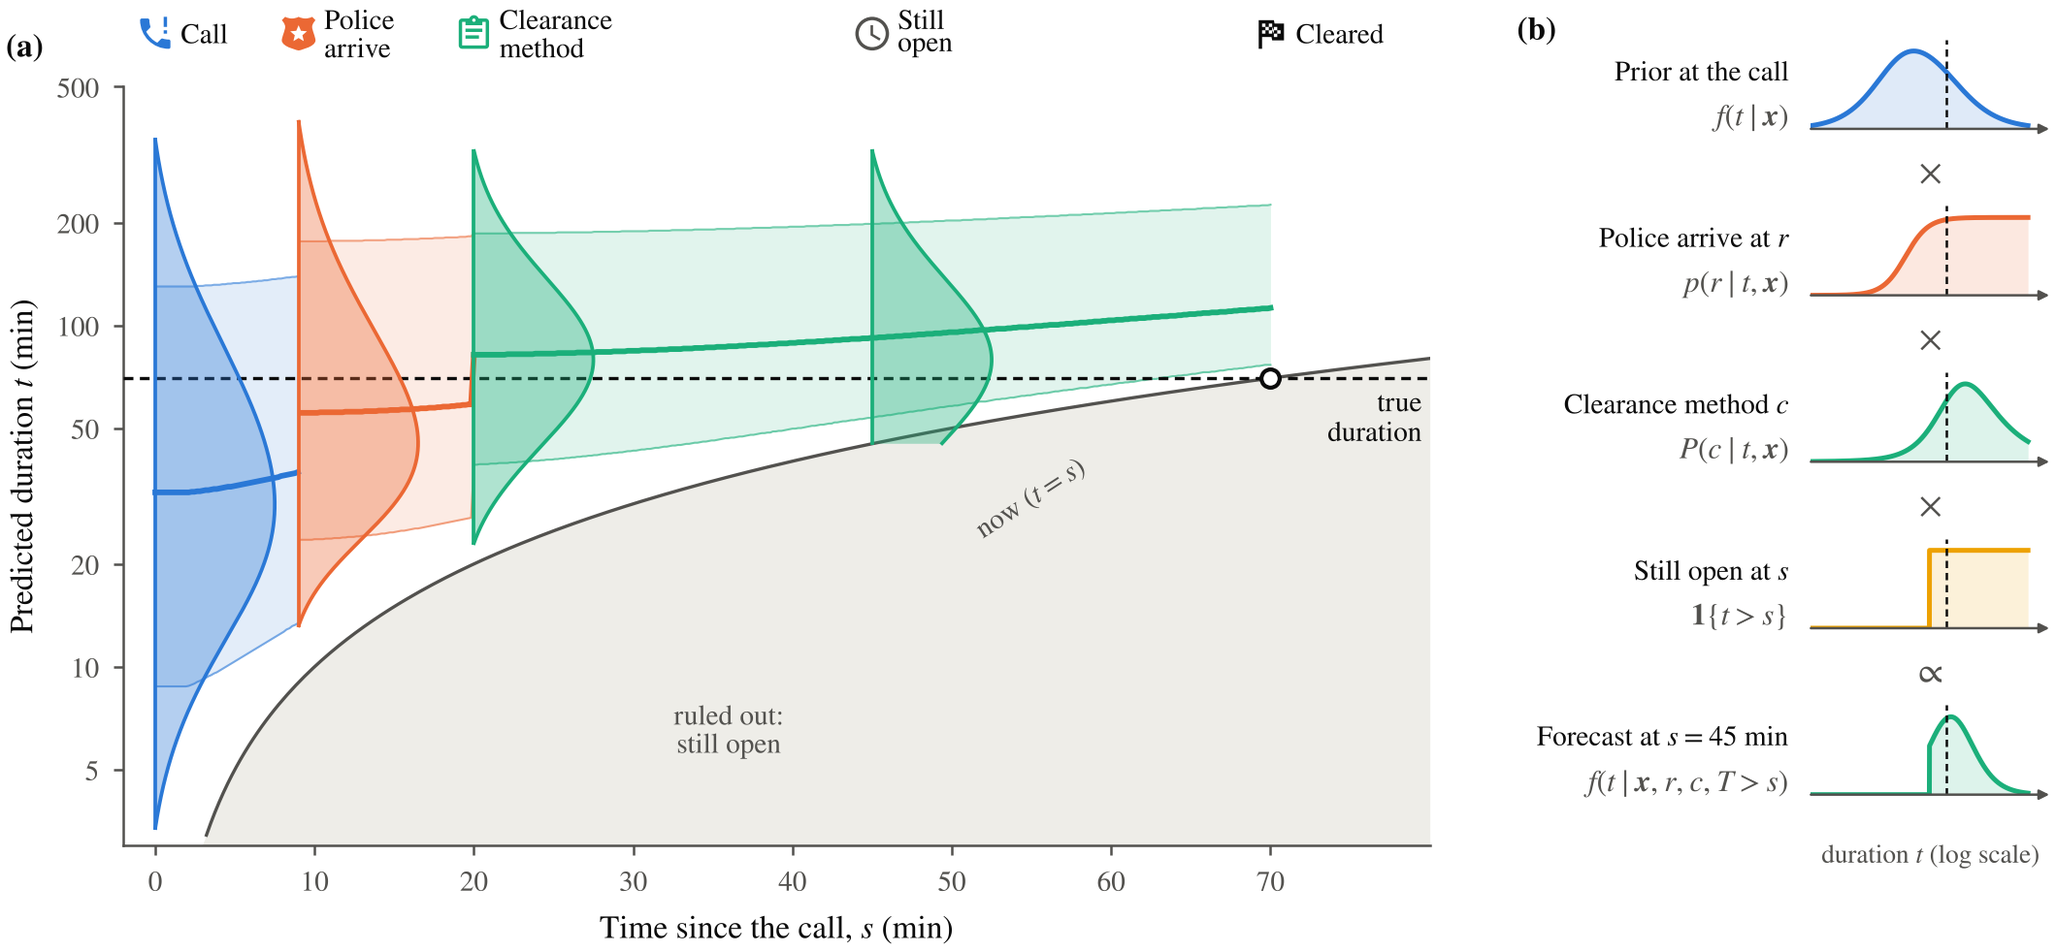
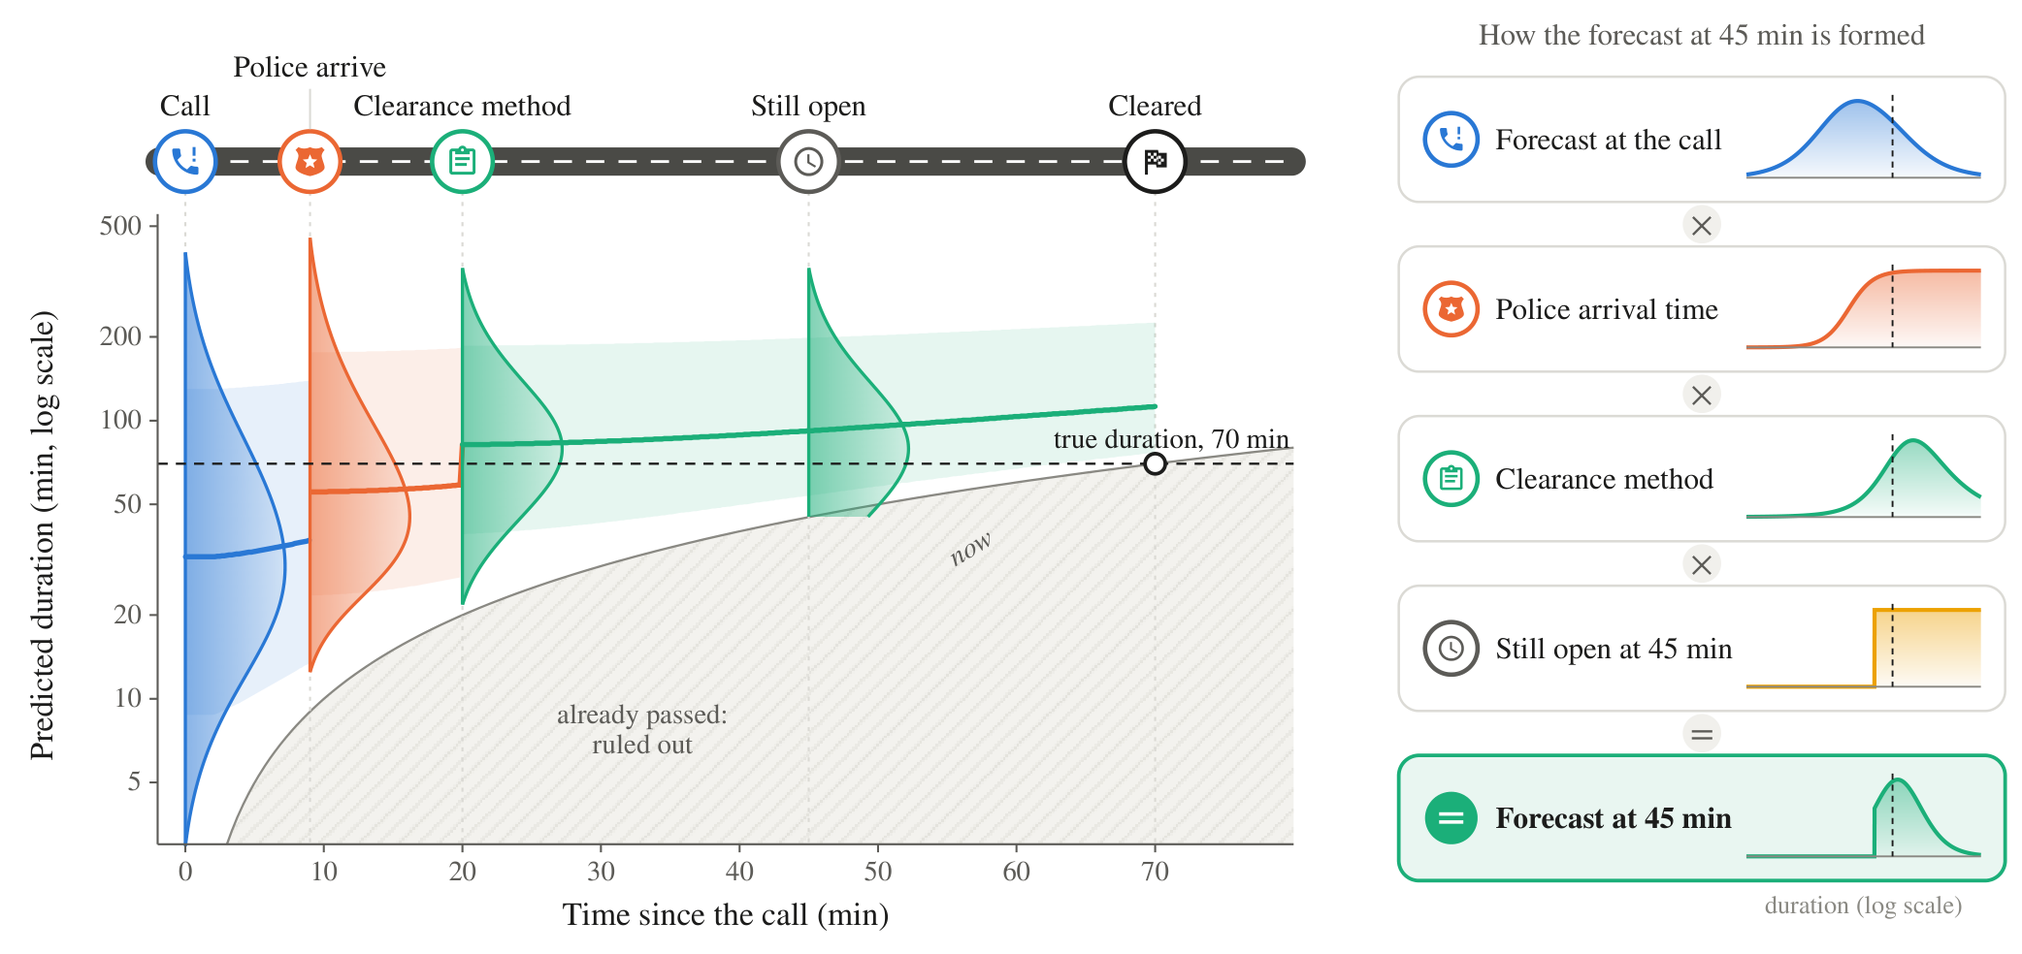
Project page for the current paper: one model for every stage, six datasets, code link
Claude-Session: https://claude.ai/code/session_01YcMY3FKXYQvjDp1taN68KX

diff --git a/index.html b/index.html
@@ -3,10 +3,10 @@
 <head>
 <meta charset="utf-8">
 <meta name="viewport" content="width=device-width, initial-scale=1">
-<title>EvoDur: Updating Incident Duration Predictions</title>
-<meta name="description" content="EvoDur updates traffic incident duration forecasts as information arrives: a neural competing-risk model with evidence modules combined by Bayes' rule.">
-<meta property="og:title" content="EvoDur: Updating traffic incident duration predictions as information arrives">
-<meta property="og:image" content="assets/graphical_abstract.png">
+<title>EvoDur: Bayesian updating of incident duration forecasts</title>
+<meta name="description" content="EvoDur: one model for every stage of the response. Traffic incident duration forecasts updated by Bayes' rule as the police arrive, the label is recorded and time passes.">
+<meta property="og:title" content="EvoDur: One model for every stage of the response">
+<meta property="og:image" content="assets/teaser.png">
 <link rel="stylesheet" href="https://cdnjs.cloudflare.com/ajax/libs/KaTeX/0.16.9/katex.min.css">
 <script defer src="https://cdnjs.cloudflare.com/ajax/libs/KaTeX/0.16.9/katex.min.js"></script>
 <script defer src="https://cdnjs.cloudflare.com/ajax/libs/KaTeX/0.16.9/contrib/auto-render.min.js"
@@ -22,6 +22,7 @@ body{margin:0;background:var(--bg);color:var(--fg);font:16px/1.65 Inter,system-u
 main{max-width:920px;margin:0 auto;padding:56px 20px 80px}
 h1{font:600 clamp(28px,4.4vw,42px)/1.18 "Source Serif 4",Georgia,serif;margin:0 0 14px;letter-spacing:-.01em;text-align:center}
 h1 .name{color:var(--accent)}
+.sub{text-align:center;font:400 clamp(18px,2.6vw,23px)/1.35 "Source Serif 4",Georgia,serif;color:var(--muted);margin:0 0 18px}
 h2{font:600 24px/1.3 "Source Serif 4",Georgia,serif;margin:56px 0 14px}
 .authors{text-align:center;font-size:17px;margin:6px 0 2px}
 .affil{text-align:center;color:var(--muted);font-size:14px}
@@ -63,85 +64,99 @@ footer{color:var(--muted);font-size:13px;text-align:center;margin-top:60px}
 </head>
 <body>
 <main>
-<h1><span class="name">EvoDur</span>: Updating traffic incident duration predictions as information arrives</h1>
+<h1><span class="name">EvoDur</span>: One model for every stage of the response</h1>
+<p class="sub">Bayesian updating of traffic incident duration forecasts</p>
 <div class="authors">Xiaoyang Cao<sup>1</sup>, Zhiyong Liu<sup>2</sup>, Ruimin Li<sup>3</sup></div>
 <div class="affil"><sup>1</sup>Massachusetts Institute of Technology &nbsp; <sup>2</sup>Beijing Jiaotong University &nbsp; <sup>3</sup>Tsinghua University</div>
 
 <div class="links">
-  <a class="btn off" href="#" title="Coming soon">Paper</a>
-  <a class="btn off" href="#" title="Coming soon">Code</a>
+  <a class="btn off" href="#" title="Coming soon">Paper (coming soon)</a>
+  <a class="btn" href="https://github.com/XiaoyangCao1113/EvoDur">Code</a>
   <a class="btn" href="#data">Data</a>
   <a class="btn" href="#citation">BibTeX</a>
 </div>
 
 <figure>
-  <img src="assets/teaser.png" alt="The predicted duration of one incident narrowing as the call, police arrival, the clearance method and elapsed time arrive">
-  <figcaption>(a) The forecast for one incident as the response unfolds: the 80% band and the predictive densities sharpen with each piece of evidence (police arrival, the clearance method, elapsed time), and durations shorter than the elapsed time are ruled out. (b) Each forecast is the call-time prior multiplied by one likelihood per piece of evidence, so no model is refitted.</figcaption>
+  <img src="assets/teaser.png" alt="The forecast for one incident sharpening as the police arrive, the label is recorded and time passes">
+  <figcaption>The forecast for one incident (schematic). Left: the forecast density issued at the call, when the police arrive, when the label is recorded and at 45 min; the band is the 80% prediction interval, and durations that have already passed are ruled out. Right: the forecast at 45 min is the forecast at the call multiplied by one factor per piece of information and renormalized. Each factor is fitted once on all incidents, so nothing is refitted.</figcaption>
 </figure>
 
-<div class="tldr"><b>In short.</b> A traffic management centre needs a duration estimate when an incident is reported, and a sharper one as the police arrive, the incident is labelled and time passes. The <i>label</i> is the category the response records for the incident: in Beijing, who cleared it (the parties or the police) and whether congestion formed; in the other datasets, its severity or the police disposition. EvoDur keeps one call-time model and adds each new piece of evidence through Bayes' rule, so one model serves every <i>information state</i>, that is, every combination of what is known at a given moment.</div>
+<div class="tldr"><b>In short.</b> A traffic management center needs a duration forecast when an incident is reported, and a sharper one as the police arrive, the officer reports how the incident is handled (the <i>label</i>) and time passes. Most models are refitted for each stage, so the models for late stages learn from the few incidents that last that long. EvoDur keeps one call-time forecast and updates it by Bayes' rule with one small likelihood per piece of evidence. It is fitted once on all incidents and serves every stage.</div>
 
 <h2>Why EvoDur</h2>
 <div class="why">
-  <div class="card"><div class="k">One model, every moment</div>
-  <p>Earlier work trains a new model for each stage of the response. EvoDur trains one call-time prior and one small module per type of evidence, and Bayes' rule gives the forecast for any combination of evidence. Nothing is refitted when information arrives, and an update takes about 2&nbsp;ms on one CPU core.</p></div>
-  <div class="card"><div class="k">Better the more you know</div>
-  <p>The log score is the log of the predicted density at the true duration, so higher is better. EvoDur has the best log score at the call on all five datasets, and its lead over every other model grows as evidence comes in, reaching 0.51 nats per incident (a 66% higher predictive density at the true duration) for incidents still open after two hours.</p></div>
-  <div class="card"><div class="k">Ahead of stage-wise models</div>
-  <p>Once the police have arrived, the single EvoDur model beats the stage-wise linear and gradient-boosting models of earlier work by 0.04 to 0.22 nats per incident in every fold, and it matches or beats a neural network trained separately for that information state.</p></div>
+  <div class="card"><div class="k">One model for every stage</div>
+  <p>A call-time forecast and one module each for the police arrival time, the label and the elapsed time. Any combination of information is handled without refitting, and an update takes 1&ndash;3&nbsp;ms on one CPU core.</p></div>
+  <div class="card"><div class="k">Better than refitting</div>
+  <p>After police arrival, EvoDur scores higher than models refitted for that stage in every fold on all four datasets with arrival times. The longer an incident stays open, the larger the gain, because a refitted model sees fewer incidents.</p></div>
+  <div class="card"><div class="k">Intervals you can act on</div>
+  <p>With the arrival time and the label, the 80% interval has a 5&ndash;14% lower interval score than stage-wise linear and gradient-boosted models, and it still covers 79&ndash;80% of incidents.</p></div>
 </div>
 
 <div class="grid">
-  <div class="stat"><b>34 / 35</b><span>cross-validation folds, over the five datasets, where EvoDur has the best log score once the label is known</span></div>
-  <div class="stat"><b>0.04–0.22</b><span>nats per incident gained over the stage-wise models of earlier work after police arrival</span></div>
-  <div class="stat"><b>10–27%</b><span>lower absolute error of the median forecast once arrival time and label are known, compared with the forecast at the call</span></div>
+  <div class="stat"><b>6 datasets</b><span>Beijing (two), NY/NJ/CT 511, Sydney, Seattle and San Francisco; 632,000 incidents in total</span></div>
+  <div class="stat"><b>11&ndash;37%</b><span>lower error of the predicted median once the arrival time and the label are known, compared with the forecast at the call</span></div>
+  <div class="stat"><b>10&ndash;39%</b><span>lower ranked probability score of the incident class forecast (minor, intermediate, major) from the call to arrival and label</span></div>
 </div>
 
 <h2>Abstract</h2>
-<p>A traffic management centre needs to know how long an incident will last as soon as it is reported, and it needs a sharper answer as the response unfolds. Current practice either fits a new model for every stage of the response or treats the clearance method as a cause that must be predicted at the call. We turn the classical competing-risk model around, modelling the duration first and the categorical label recorded during the response second, with neural networks for both parts. The resulting model, EvoDur, consists of a call-time prior and one small likelihood module per type of later evidence, such as the police arrival time, the label or the fact that the incident is still open, and Bayes' rule combines whatever evidence is available without refitting anything. The call-time forecast does not depend on the label model, and conditioning on elapsed time is at least as efficient as refitting. On five datasets from Beijing, the New York region, Montgomery County and Austin, EvoDur has the best log score of ten models at the call and once the label is known (34 of 35 folds), and its lead widens as evidence accumulates.</p>
+<p>Traffic management centers decide on diversions, message signs, tow trucks and police units while an incident is still open, so they need a duration forecast that is revised as information arrives. Most existing models are refitted for each stage of the response, and the models for late stages learn from the few incidents that reach them. We propose EvoDur, one model for every stage. A neural network forecasts the distribution of the duration at the call. The police arrival time, the response label that records how the incident is handled, and the time the incident has stayed open each enter through their own likelihood given the duration, and Bayes' rule combines whatever is known. On six datasets from three countries, EvoDur is as accurate as the best of ten baselines at the call. After police arrival it is more accurate than models refitted for that stage and than a single network with the later information as optional inputs, and the longer an incident stays open, the more it gains over models refitted on the incidents still open. With the arrival time and the label, its 80% prediction intervals have a 5&ndash;14% lower interval score than those of stage-wise linear and gradient-boosted models and keep their nominal coverage. Relative to the call, the arrival time and the label reduce the error of the predicted median by 11&ndash;37% on the four datasets that record arrivals, and the forecast of the incident class (minor, intermediate or major) improves at each stage.</p>
 
 <h2>Method</h2>
-<p>Let \(\boldsymbol{x}\) be the features known at the call (time, location, incident type and, where recorded, vehicles and weather), \(T\) the duration and \(C\) the label recorded during the response. Their joint distribution can be written in two orders. Earlier competing-risk models put the label first,</p>
+<p>Let \(\boldsymbol{x}\) be what is known at the call (time, location, incident type and, where recorded, priority or vehicles), \(T\) the duration and \(C\) the label recorded during the response. Classical competing-risk models put the label first,</p>
 <div class="eq">\[ p(c, t \mid \boldsymbol{x}) = P(c \mid \boldsymbol{x})\, f(t \mid c, \boldsymbol{x}), \]</div>
-<p>so the call-time forecast is a mixture over labels that are not yet known. EvoDur uses the other order,</p>
+<p>so the forecast at the call is a mixture over labels that are not yet known. EvoDur puts the duration first,</p>
 <div class="eq">\[ p(c, t \mid \boldsymbol{x}) = f(t \mid \boldsymbol{x})\, P(c \mid t, \boldsymbol{x}). \]</div>
-<p>The label then becomes evidence about the duration, and any later piece of evidence \(e_j\) with a likelihood given the duration enters the same way:</p>
+<p>The label then becomes evidence about the duration, and every later piece of evidence \(e_j\) with a likelihood given the duration enters the same way:</p>
 <div class="eq">\[ f(t \mid \boldsymbol{x}, e_1, \dots, e_m) \;\propto\; f(t \mid \boldsymbol{x}) \prod_{j=1}^{m} p(e_j \mid t, \boldsymbol{x}). \]</div>
-<p>The prior \(f(t \mid \boldsymbol{x})\) is a neural network that outputs a mixture of log-logistic accelerated failure time (AFT) distributions. The evidence modules are a classifier for the label, a mixture density for the police arrival time \(r < t\) (minutes after the call), and the indicator \(\mathbb{1}\{t > s\}\) for an incident still open at time \(s\). Each part is fitted once, and any subset of evidence is combined at prediction time.</p>
-
-<h2>Results</h2>
-<p><b>The lead grows with the evidence.</b> At the call EvoDur and the strongest baseline are close, since both see only the call-time features \(\boldsymbol{x}\). Each new piece of evidence widens the gap.</p>
+<p>The call-time forecast \(f(t \mid \boldsymbol{x})\) is a neural mixture of log-logistic distributions. The modules are a classifier of the label given the duration, a model of the police arrival time \(r\) as a fraction of the duration (so \(r < t\) holds by construction), and the indicator \(\mathbb{1}\{t > s\}\) for an incident still open at time \(s\). Labels that indicate a larger response become more likely as the duration grows, so the label carries information about the duration:</p>
 <figure>
-  <img src="assets/gain.png" alt="EvoDur's margin over the best other model rising from the call to incidents still open after two hours" style="max-width:520px;margin:0 auto">
-  <figcaption>EvoDur's lead in log score over the best baseline in each information state (call, label known, still open after 30, 60 and 120 minutes). After the call, only baselines that can use the label are compared. The lead grows as evidence accumulates, up to 0.51 nats per incident for incidents still open after two hours.</figcaption>
+  <img src="assets/label_curves.png" alt="Probability of each label class given the duration in six datasets">
+  <figcaption>Probability of each label class given the duration, from EvoDur's label module (held-out incidents). At each duration the bands sum to 1.</figcaption>
 </figure>
 
-<p class="tnote">Log score per incident on held-out data (nats, higher is better), mean over cross-validation folds. &ldquo;Best other&rdquo; at the call is the best of the nine baselines: linear and neural competing-risk mixtures, DeepHit, Neural Fine-Gray, a linear AFT model, a Weibull mixture density network, XGBoost-AFT, a random survival forest and DeepSurv (the last two give no density). Once the label is known it is the best of the four baselines that can use the label.</p>
+<h2>Results</h2>
+<p><b>At the call, and after police arrival.</b> At the call EvoDur is as accurate as the best other model. After police arrival it is ahead of every model refitted for that stage.</p>
+<figure>
+  <img src="assets/summary.png" alt="EvoDur compared with its strongest competitor at the call, with the label known and after police arrival">
+  <figcaption>Difference in held-out log score per incident between EvoDur and its strongest competitor (positive means EvoDur is better), with 95% confidence intervals over cross-validation folds. (a) At the call. (b) With the label known, against the best competing-risk model. (c) After police arrival, against stage-wise models fitted for that stage.</figcaption>
+</figure>
+
+<p style="margin-top:28px"><b>The gain over refitting grows the longer an incident stays open.</b> A model refitted for a late stage learns only from the incidents that are still open, and these become few. EvoDur keeps the call-time forecast learned from all incidents.</p>
+<p class="tnote">Log score of EvoDur minus that of a neural network refitted on the incidents still open, with the label known (&times;10<sup>&minus;3</sup> per incident; positive means EvoDur is better), and the number of folds won out of five. A dash marks fewer than 100 test incidents per fold.</p>
 <div class="tablewrap">
 <table>
-<thead><tr><th>Dataset</th><th>Incidents</th><th>EvoDur, call</th><th>Best other, call</th><th>EvoDur, label known</th><th>Best other, label known</th></tr></thead>
+<thead><tr><th>State</th><th>Beijing 4th Ring</th><th>Beijing citywide</th><th>NY/NJ/CT 511</th><th>Sydney</th><th>Seattle</th><th>San Francisco</th></tr></thead>
 <tbody>
-<tr><td>Beijing 4th Ring</td><td>5,388</td><td class="ours">−4.134</td><td>−4.144</td><td class="ours">−4.108</td><td>−4.127</td></tr>
-<tr><td>Beijing citywide</td><td>40,120</td><td class="ours">−4.273</td><td>−4.277</td><td class="ours">−4.254</td><td>−4.290</td></tr>
-<tr><td>NY/NJ/CT 511</td><td>206,009</td><td class="ours">−4.734</td><td>−4.755</td><td class="ours">−4.719</td><td>−4.804</td></tr>
-<tr><td>Montgomery County</td><td>147,835</td><td class="ours">−4.845</td><td>−4.850</td><td class="ours">−4.788</td><td>−4.814</td></tr>
-<tr><td>Austin</td><td>229,693</td><td class="ours">−5.500</td><td>−5.501</td><td class="ours">−5.350</td><td>−5.367</td></tr>
+<tr><td>Label known</td><td>&minus;11 (0/5)</td><td>&minus;3 (1/5)</td><td>0 (3/5)</td><td>&minus;5 (0/5)</td><td>&minus;2 (2/5)</td><td class="ours">+6 (5/5)</td></tr>
+<tr><td>Open 10 min</td><td>+1 (2/5)</td><td>&minus;2 (1/5)</td><td>+1 (3/5)</td><td>&minus;2 (2/5)</td><td>&minus;3 (2/5)</td><td class="ours">+4 (5/5)</td></tr>
+<tr><td>Open 30 min</td><td>0 (2/5)</td><td>+4 (4/5)</td><td class="ours">+5 (5/5)</td><td>+5 (4/5)</td><td>0 (3/5)</td><td class="ours">+4 (5/5)</td></tr>
+<tr><td>Open 60 min</td><td>+16 (3/5)</td><td class="ours">+18 (5/5)</td><td class="ours">+28 (5/5)</td><td>+4 (3/5)</td><td class="ours">+10 (5/5)</td><td class="ours">+7 (5/5)</td></tr>
+<tr><td>Open 90 min</td><td>&ndash;</td><td>+25 (3/5)</td><td class="ours">+36 (5/5)</td><td>+5 (3/5)</td><td class="ours">+16 (5/5)</td><td class="ours">+8 (5/5)</td></tr>
+<tr><td>Open 120 min</td><td>&ndash;</td><td>0 (4/5)</td><td class="ours">+88 (5/5)</td><td>&minus;4 (2/5)</td><td class="ours">+20 (5/5)</td><td class="ours">+9 (5/5)</td></tr>
 </tbody>
 </table>
 </div>
 
-<figure style="margin-top:32px">
-  <img src="assets/cases.png" alt="Forecasts for three held-out Beijing incidents before and after police arrival">
-  <figcaption>Forecasts for three held-out incidents of the Beijing 4th Ring data, chosen by a fixed rule (10th, 50th and 90th percentile of the gain in log score from the evidence). Blue is the forecast at the call, green after police arrival and the label. Each panel names the incident's label (&ldquo;self&rdquo;: cleared by the parties themselves).</figcaption>
+<p style="margin-top:28px"><b>What moves the forecast.</b> Because each piece of information has its own module, its effect can be read off. A severe NY/NJ/CT event multiplies the median duration by 2.6; in Seattle, an officer reporting that only assistance was given cuts the chance of an incident longer than 2 h from 50% to 26%.</p>
+<figure>
+  <img src="assets/effects.png" alt="Effects of call-time attributes and response labels on the forecast median">
+  <figcaption>(a) Ratio of the predicted median duration with and without a call-time attribute, for EvoDur (dots) and a linear AFT model (open circles). (b) Ratio of the predicted median after and before the label is known. These are associations learned from the records, not causal effects.</figcaption>
+</figure>
+
+<p style="margin-top:28px"><b>Value for decisions.</b> For a decision that pays off only for major incidents (over 2 h), such as signing a long diversion, acting on EvoDur's probability of a major incident saves more at each stage of the response.</p>
+<figure>
+  <img src="assets/value.png" alt="Relative economic value of acting on EvoDur's probability of a major incident" style="max-width:720px;margin:0 auto">
+  <figcaption>Relative economic value at the call, after police arrival and after arrival and label, against the ratio of the cost of acting to the loss avoided. 0 is no saving over always or never acting; 1 is the saving of perfect knowledge.</figcaption>
 </figure>
 
 <h2 id="data">Data</h2>
-<p>Three benchmarks are public: the <a href="https://data.ny.gov/">511NY event feed</a> (NY/NJ/CT, 2010–2015), and the police dispatch records of <a href="https://data.montgomerycountymd.gov/">Montgomery County, Maryland</a> and <a href="https://datahub.austintexas.gov/">Austin, Texas</a> (2017–2026). The code includes a script that downloads them. The Beijing data (2008) are available from the corresponding author on reasonable request, because of privacy restrictions of the Beijing Municipal Traffic Management Bureau.</p>
+<p>Four datasets are public: the <a href="https://data.ny.gov/">511NY event feed</a> (NY/NJ/CT, 2010&ndash;2015), the Sydney road traffic incident data (Mendeley Data), and the police dispatch records of <a href="https://data.seattle.gov/">Seattle</a> and <a href="https://data.sf.gov/">San Francisco</a>. The <a href="https://github.com/XiaoyangCao1113/EvoDur">code</a> downloads them, checks them against the snapshot used in the paper, and regenerates every table and figure. The Beijing data (2008) are available from the corresponding author on reasonable request; they are not public because of privacy restrictions of the Beijing Municipal Traffic Management Bureau.</p>
 
 <h2 id="citation">Citation</h2>
 <pre>@article{cao2026evodur,
-  title   = {Updating traffic incident duration predictions as information arrives:
-             a neural competing-risk model with evidence modules},
+  title   = {One model for every stage of the response: Bayesian updating of
+             traffic incident duration forecasts},
   author  = {Cao, Xiaoyang and Liu, Zhiyong and Li, Ruimin},
   journal = {Preprint},
   year    = {2026}
